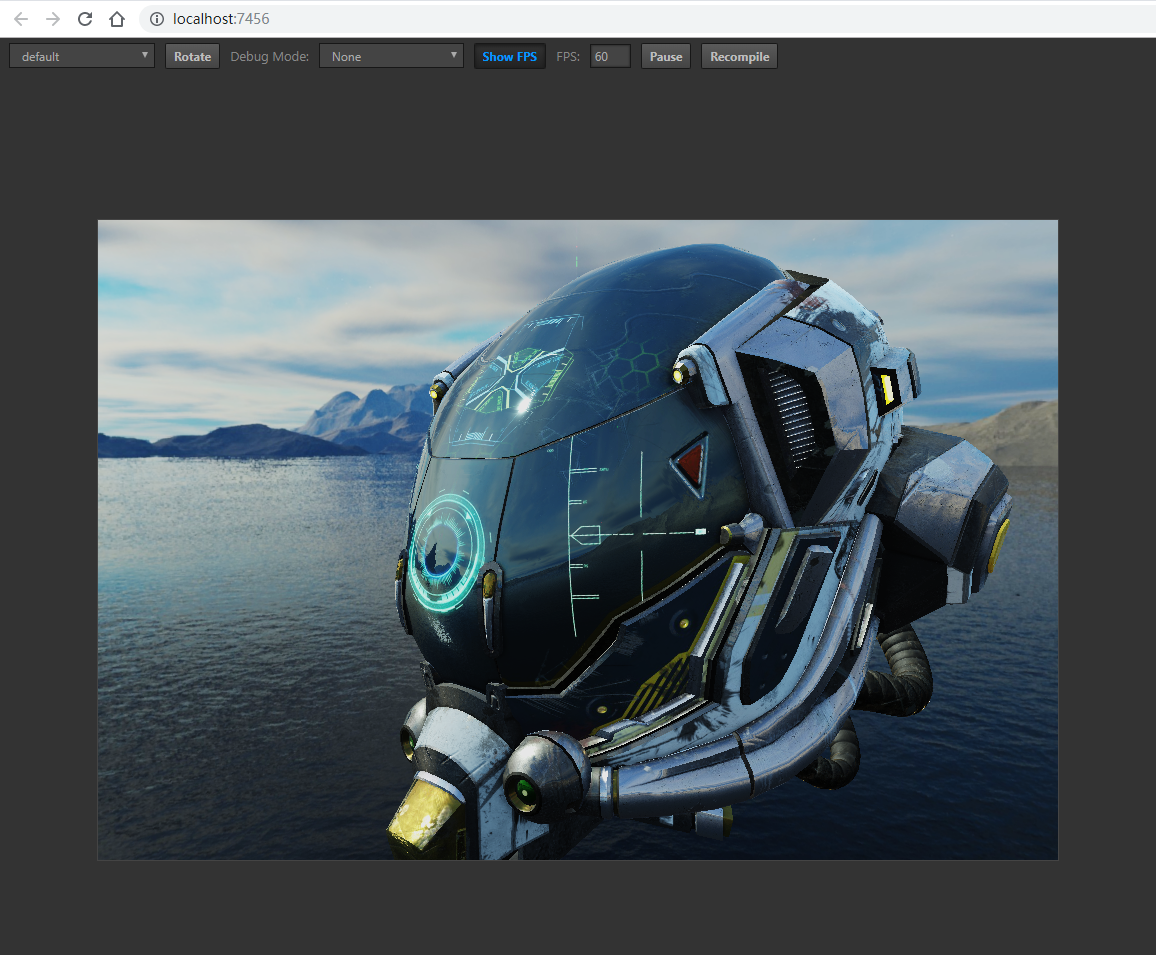
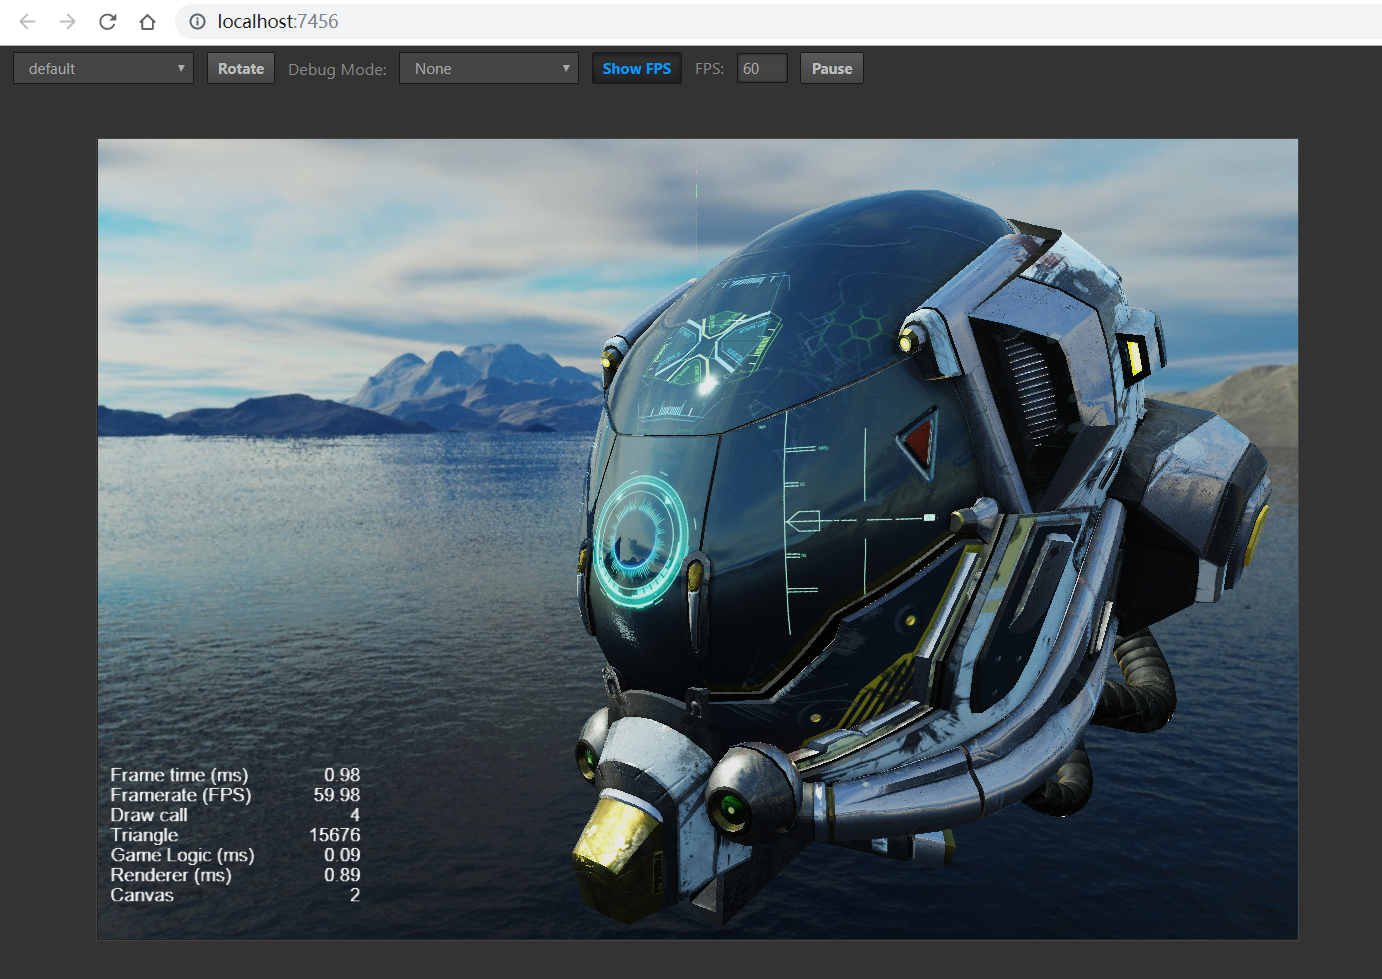
update animation、preview docs

diff --git a/zh/editor/preview/index/index.html b/zh/editor/preview/index/index.html
@@ -47,7 +47,6 @@
                 <button id="btn-pause">Pause</button><button id="btn-step">Step</button>
             </div>
             <div class="item"><button id="btn-step" style="display: none;">Step</button></div>
-            <div class="item"><button id="btn-recompile">Recompile</button></div>
         </div>
         <div class="error" id="error">
             <div class="title">Error</div>

diff --git a/zh/editor/preview/browser.md b/zh/editor/preview/browser.md
@@ -11,17 +11,19 @@
 - **Show FPS** 按钮可以选择是否显示每秒帧数和 Drawcall 数量等调试信息
 - **FPS** 限制最高每秒帧数
 - **Pause** 暂停游戏
-- **Recompile** 重新编译项目脚本
 
 ![browser](index/browser.png)
 ## 刷新预览
-如果在编辑器内对场景做了修改，想要刷新预览效果，直接在浏览器里面刷新或者点击编辑器的刷新按钮即可。不同在于，编辑器的刷新按钮，将会刷新所有的预览页面。如果想要让预览页面自动刷新，保存场景即可。保存场景自动刷新的设置在 `偏好设置 -> 通用设置` 里可以修改。
+如果在编辑器内对场景做了修改，想要刷新预览效果，直接在浏览器里面刷新或者点击编辑器的刷新按钮即可。不同在于，编辑器的刷新按钮，将会刷新所有的预览页面。如果想要让预览页面自动刷新，保存场景即可。保存场景自动刷新的设置在 `项目设置 -> 项目预览` 里可以修改。
+![start-scenel](index/auto-refresh.png)
 
 ## 预览场景
-预览场景模式是当前打开场景，如果需要调整可以在 `项目设置 -> 项目预览` 里修改预览的初始场景。
+预览场景默认是当前打开场景，如果需要调整可以在 `项目设置 -> 项目预览` 里修改预览的初始场景（注意 : 需要勾选 local 菜单，和取消选中 Use Global，详情请参考[项目设置]()）。
+
+![start-scenel](index/start-scene.png)
 
 ## 手机端预览
-如果想要查看手机端的预览情况，可以使用浏览器开发者工具的手机端预览模式或者是将鼠标移动到编辑器工具栏左边的 ip 预览地址上，会显示一个预览的二维码。手机端扫一扫即可，当然也可以直接在手机端浏览器里直接输入预览的 url 地址。这一方法的前提是，手机需要和电脑在同一网段。由于电脑的网络有可能有多个，如果编辑器预览 url 的 ip 地址选择不正确，可以在 `偏好设置 -> 通用设置 -> 选择本机预览地址` 里面修改，详情可以参考项目设置的说明。
+如果想要查看手机端的预览情况，可以使用浏览器开发者工具的手机端预览模式或者是将鼠标移动到编辑器工具栏左边的 ip 预览地址上，会显示一个预览的二维码。手机端扫一扫即可，当然也可以直接在手机端浏览器里直接输入预览的 url 地址。这一方法的前提是，手机需要和电脑在同一网段。由于电脑的网络有可能有多个，如果编辑器预览 url 的 ip 地址选择不正确，可以在 `偏好设置 -> 通用设置 -> 选择本机预览地址` 里面修改，详情可以参考偏好设置的说明。
 
 ![preview-url](index/preview-url.png)
 

diff --git a/zh/editor/animation/animation-curve.md b/zh/editor/animation/animation-curve.md
@@ -4,7 +4,7 @@
 但有时候我们会需要在两帧之间实现 EaseInOut 等缓动效果，那么在动画编辑器中怎么实现呢？
 
 我们首先需要在一条轨道上创建两个不相等的帧，比如在 position 上创建两帧，从 0,0 到 100,100。
-这时候两帧之间会出现一根连接线（连接关键帧之间的蓝色线段），双击连接线，可以打开时间曲线编辑器。
+这时候两帧之间会出现一根连接线（连接关键帧之间的蓝色线段），双击连接线，可以打开曲线编辑器。
 
 ![time curve](animation-curve/main.png)
 
@@ -16,14 +16,16 @@
 
 ## 自定义曲线
 
-有时候预设的不能够满足动画需求，我们也可以自己修改曲线。
-右侧下方预览图内，有两个灰色的控制点，拖拽控制点可以更改曲线的轨迹。
+有时候预设的曲线不能够满足动画需求时，我们也可以自己修改曲线。
+在曲线编辑器的预览曲线图内，有两个灰色的控制点，拖拽控制点可以更改曲线的轨迹。
 如果控制点需要拖出视野外，则可以使用鼠标滚轮缩放预览图。
 
-修改过程中的曲线数据会实时的显示在曲线区域左上角的输入框内，同时该曲线输入框还支持手动输入曲线数据来生成曲线，当然曲线数据的格式必须是和原先一致的否则无法正常应用。
+修改过程中的曲线数据会实时的显示在曲线区域左上角的输入框内，同时该输入框还支持**手动输入曲线数据来生成曲线**，当然曲线数据的格式必须是四个数字用逗号隔开的格式，否则无法正常应用。
 
 ## 保存自定义曲线
-有时项目需求的一些自定义曲线数据需要复用，就可以将其保存在 User 的预设库内。在左上方选择 User 选项后，编辑需要保存的曲线数据，再在左下方的输入框内输入希望保存的曲线数据名称，点击 add 即可添加。注意，同名曲线会做覆盖处理，自定义曲线的保存是没有做撤销处理的，所以如果被覆盖了就需要重新添加的。
+有时项目需求的一些自定义曲线数据需要复用，就可以将其保存在 User 的预设库内。具体可以在编辑需要保存的曲线数据后，在左上方的预设菜单选择 User 选项再在左下方的输入框内输入希望保存的曲线数据名称，点击 add 即可添加。
+
+>**注意**：同名曲线会做覆盖处理，自定义曲线的保存是没有做撤销处理的，所以如果被覆盖了就需要重新添加的。
 
 ![add-curve](animation-curve/add-curve.png)
 

diff --git a/zh/editor/animation/animation-create.md b/zh/editor/animation/animation-create.md
@@ -19,8 +19,8 @@
  - 在资源管理器中点击左上方的`+`，或者右键空白区域，选择 Animation Clip，这时候会在管理器中创建一个名为 'New AnimationClip' 的剪辑文件。
 单单创建还是不够的，我们再次在层级管理器中点选刚刚的节点，在属性检查器中找到 Animation，这时候的 Clips 显示的是 0，我们将它改成 1。
 然后将刚刚在资源管理器中创建的 'New AnimationClip' ，拖入刚刚出现的`animation-clip 选择框`内。
- - 如果 Animation 组件中还没有添加动画剪辑文件，则可以在动画编辑器中直接点击 `新建 AnimationClip` 按钮，根据弹出的窗口创建一个新的动画剪辑文件。
- 需要注意的是，如果选择覆盖已有的剪辑文件，被覆盖的文件内容会被清空。
+ - 如果 Animation 组件中还没有添加动画剪辑文件，也可以在动画编辑器中直接点击 `新建 AnimationClip` 按钮，根据弹出的窗口创建一个新的动画剪辑文件，新建完的动画剪辑会自动附在动画组件上。
+>**注意**: 如果选择覆盖已有的剪辑文件，被覆盖的文件内容会被清空。
 
 ![add-clip](animation-clip/add-clip.png)
 

diff --git a/zh/editor/animation/animation-event.md b/zh/editor/animation/animation-event.md
@@ -14,7 +14,8 @@
 ![del-event](animation-event/del-event.png)
 
 ## 添加事件帧函数
-在事件函数编辑器的左上方点击`+`按钮，即可添加新的事件帧函数
+在事件函数编辑器的左上方点击 `+` 按钮，即可添加新的事件帧函数
+![add-function](animation-event/add-function.png)
 
 ## 删除时间帧函数
 需要单独删除对应时间位置的某个帧函数，可以在事件函数编辑器中，点击函数名旁边的删除按钮。
@@ -26,6 +27,6 @@
 
 如果需要添加传入的参数，则在 Params 旁点击 `+` 或者 `-` ，目前只支持 Boolean、String、Number 三种类型的参数。
 
-出现修改后，事件函数编辑器的标题旁会出现红色的星号，事件函数的修改是需要手动保存的，修改后点击上方的保存按钮即可保存。
+出现修改后，事件函数编辑器的标题旁会出现红色的星号，事件函数的修改是需要手动保存的，修改后点击上方的保存按钮即可保存。如果没有保存，在关闭事件编辑器也会有提示保存的弹框。
 
 ![edit-event](animation-event/edit-event.png)

diff --git a/zh/editor/animation/sprite-animation.md b/zh/editor/animation/sprite-animation.md
@@ -4,7 +4,7 @@
 
 ## 为节点新增 Sprite 组件
 
-首先我们需要让节点正常显示纹理，所以需要为节点增加Sprite组件。
+首先我们需要让节点能正常显示纹理，所以需要为节点增加Sprite组件。
 选中节点后在属性检查器中通过 **添加组件** 按钮，选择 `UI -> Render -> Sprite`。
 
 ## 在属性列表中添加 cc.Sprite.spriteFrame
@@ -17,7 +17,7 @@
 从资源管理器中，将纹理拖拽到属性帧区域，放在 `cc.Sprite.spriteFrame` 轨道上。
 再将下一帧需要显示的纹理拖到指定位置，然后点击播放就可以预览刚刚创建的动画了。
 
-同时拖拽多个纹理到属性轨道上，轨道上将按钮纹理选中的顺序，将其按照顺序，以工具栏上显示间隔数来排列生成关键帧。
+如果同时拖拽多个纹理到属性轨道上，轨道上将按钮纹理选中的顺序，将其按照顺序，以工具栏上显示间隔数来排列生成关键帧。
 
 ![](sprite-animation/sprite-frame.png)
 ## 排列修改关键帧间隔

diff --git a/zh/SUMMARY.md b/zh/SUMMARY.md
@@ -106,7 +106,6 @@
   - [编辑帧动画](editor/animation/sprite-animation.md)
   - [编辑动画曲线](editor/animation/animation-curve.md)
   - [添加动画事件](editor/animation/animation-event.md)
-  - [使用脚本控制动画](editor/animation/scripting-animation.md)
 - [构建发布](editor/publish/index.md)
   - [熟悉构建发布面板与通用构建参数](editor/publish/build-panel.md)
   - [发布到 web 平台](editor/publish/publish-web.md)

diff --git a/zh/editor/preview/index.md b/zh/editor/preview/index.md
@@ -7,4 +7,4 @@
 
 <hr>
 
-先从 [浏览器预览] (browser.md)开始了解。
+先从 [浏览器预览](browser.md) 开始了解。
